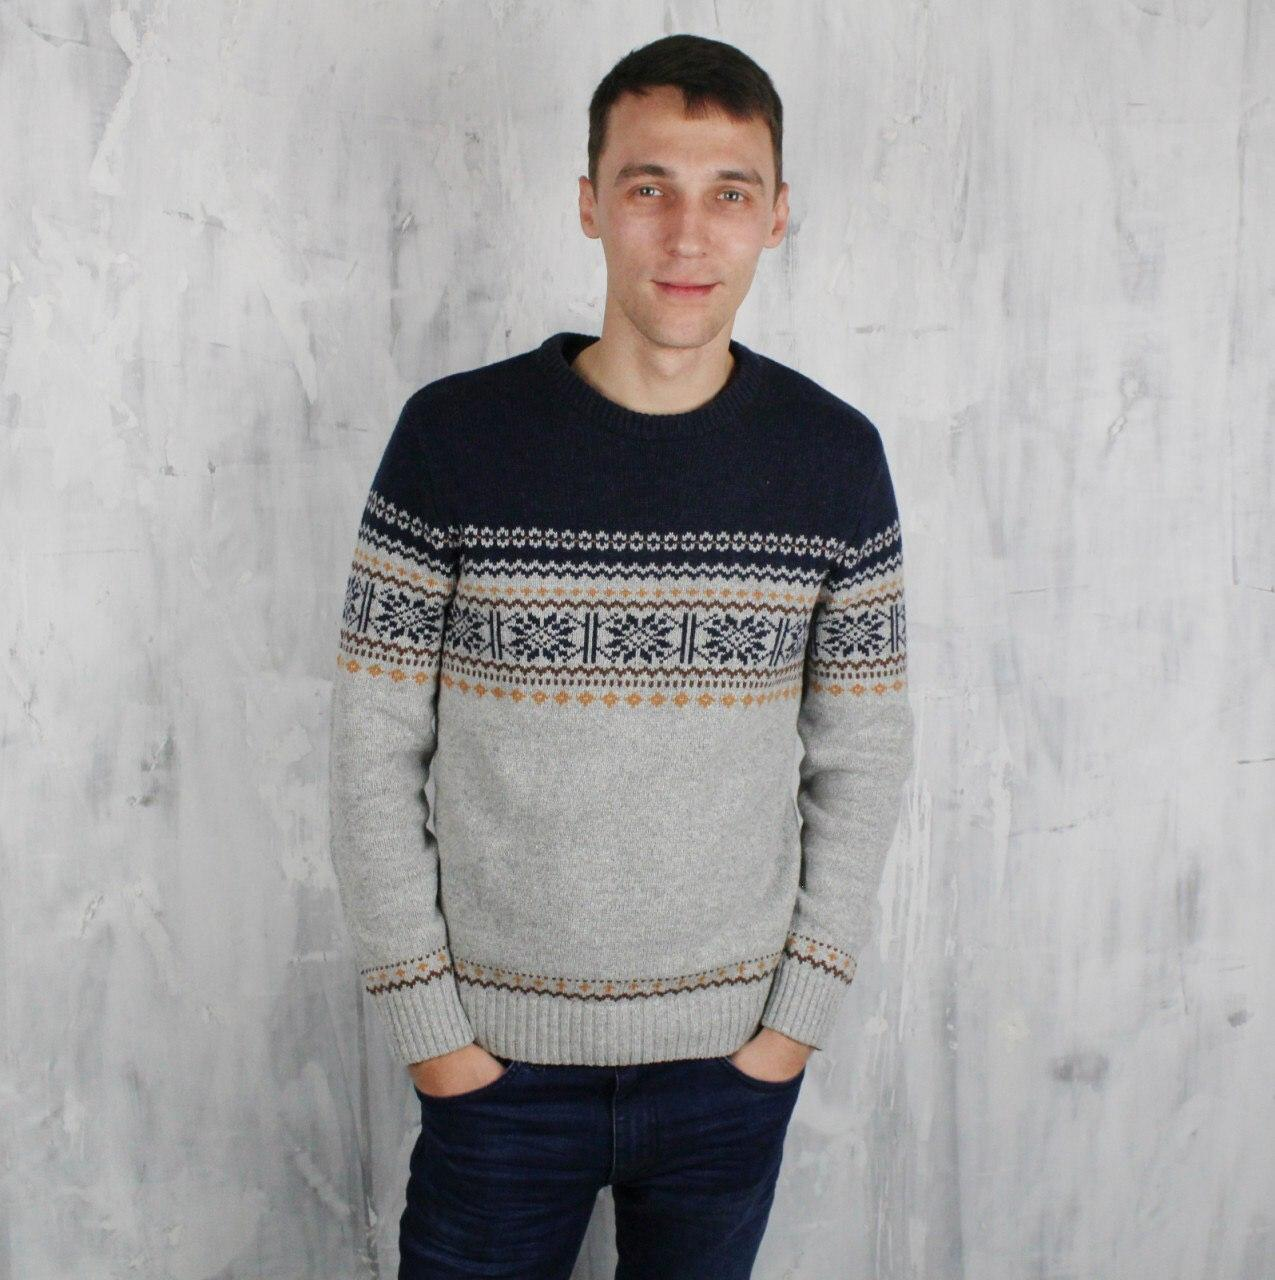
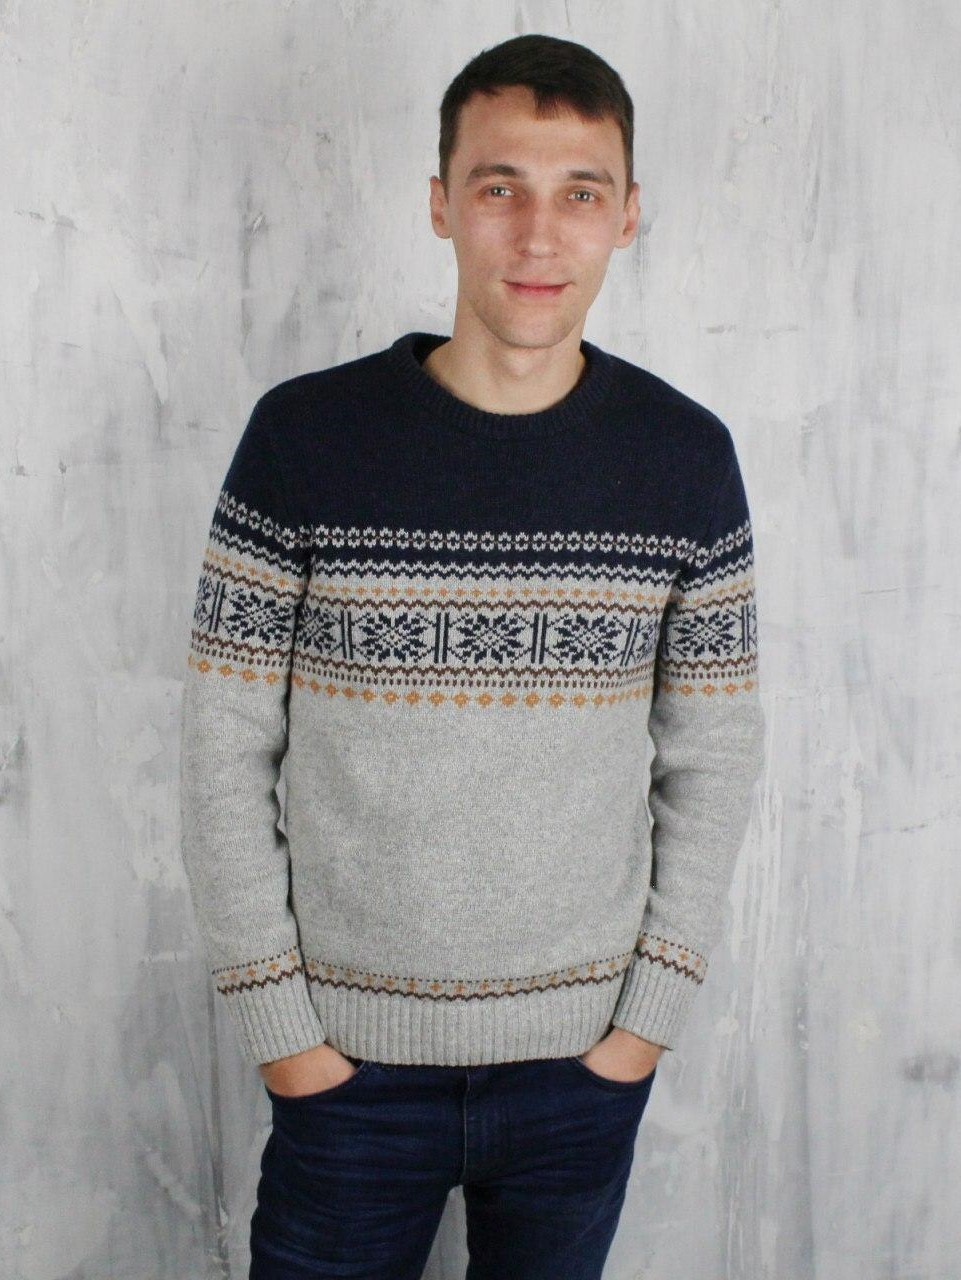
Last updates

diff --git a/index.html b/index.html
@@ -35,7 +35,7 @@
               <img src="./img/my-photo.jpg" class="d-block w-100" alt="Артем Кулыгин" title="Артем Кулыгин" />
             </div>
             <div class="carousel-item">
-              <img src="./img/artem-kulyhin.jpg" class="d-block w-100" alt="Артем Кулыгин" />
+              <img src="./img/my-photo2.jpg" class="d-block w-100" alt="Артем Кулыгин" />
             </div>
           </div>
           <a class="carousel-control-prev" href="#carouselExampleControls" role="button" data-slide="prev">
@@ -72,13 +72,21 @@
           <div class="tech-skill-container">
             <h3>Tech Skills</h3>
             <ul>
-              <li><span>HTML5</span></li>
-              <li><span>CSS3</span></li>
-              <li><span>GIT</span></li>
-              <li><span>WebPack</span></li>
-              <li><span>JavaScript</span></li>
+              <li><span>HTML5/CSS3</span></li>
+              <li><span>JavaScript Es6+</span></li>
               <li><span>React.js</span></li>
+              <li><span>Next.js</span></li>
               <li><span>Node.js</span></li>
+              <li><span>React router</span></li>
+             <li><span>Redux</span></li>
+              <li><span>Axios</span></li>
+              <li><span>Express</span></li>
+              <li><span>Mongodb</span></li>
+              <li><span>Mongoose</span></li>
+              <li><span>GIT</span></li>
+              <li><span>Webpack/Gulp</span></li>
+              <li><span>PHP</span></li>
+              <li><span>MySQL</span></li>
             </ul>
           </div>
           <!-- Tech Skills container END -->
